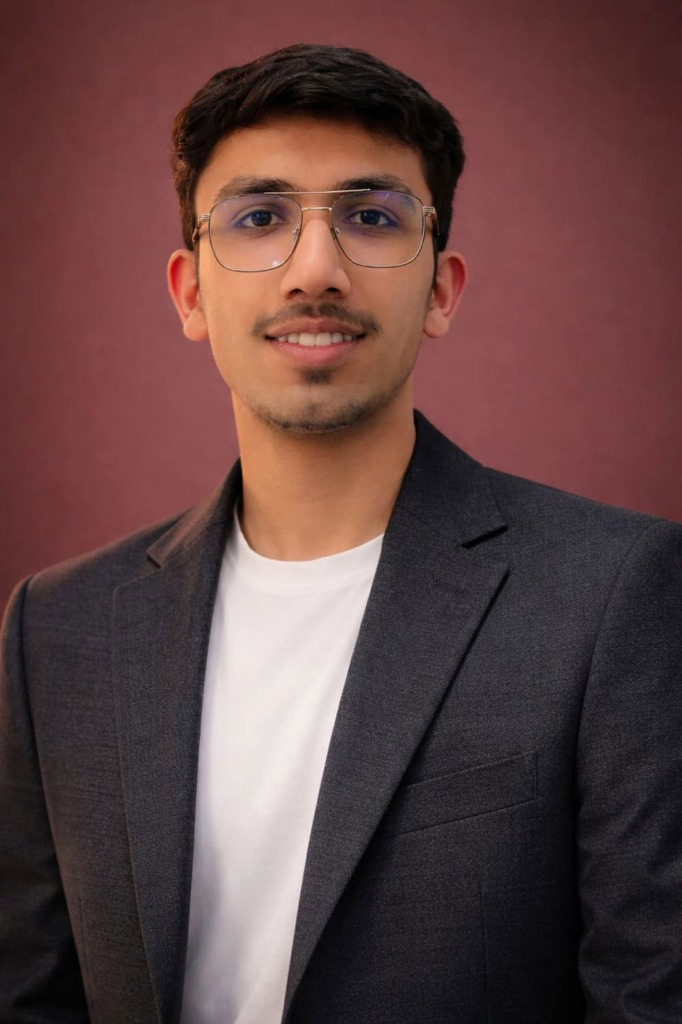
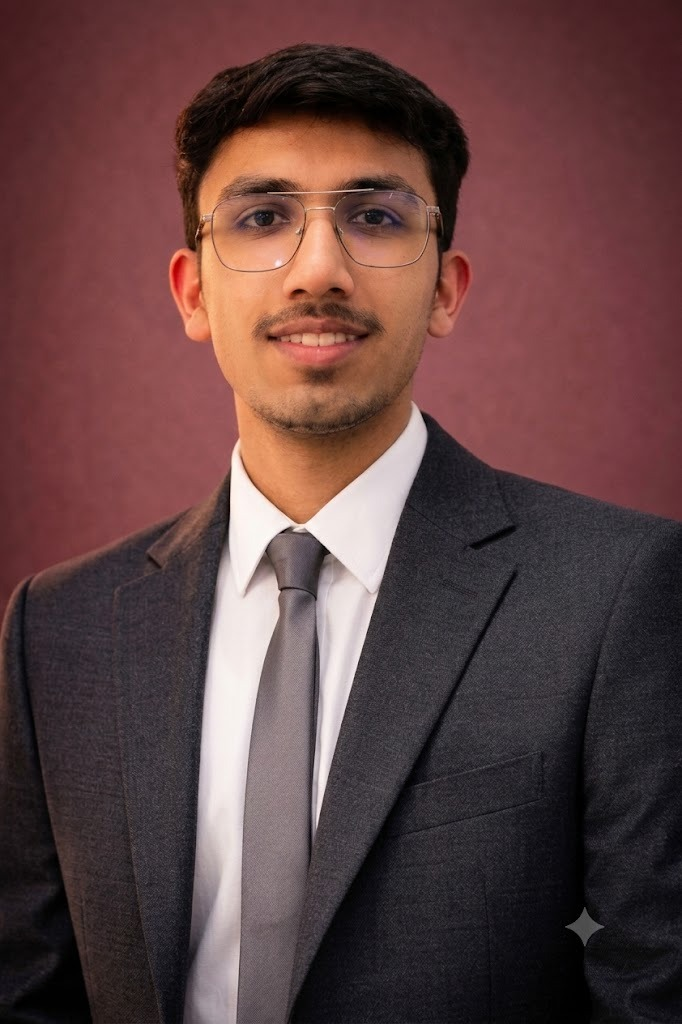
Update profile photo with improved framing and remove JEE gap milestone note

diff --git a/src/styles/index.css b/src/styles/index.css
@@ -599,38 +599,41 @@ body.custom-cursor-active * {
   display: flex;
   justify-content: center;
   align-items: center;
-  width: calc(var(--avatar-size) + 100px);
-  height: calc(var(--avatar-size) + 100px);
+  width: calc(var(--avatar-size) + 90px);
+  height: calc(var(--avatar-size) + 90px);
   max-width: 100%;
   margin: 0 auto;
 }
 
 .avatar-ring {
   position: absolute;
-  width: calc(var(--avatar-size) + 70px);
-  height: calc(var(--avatar-size) + 70px);
+  width: calc(var(--avatar-size) + 60px);
+  height: calc(var(--avatar-size) + 60px);
   border-radius: 50%;
-  border: 2px dashed rgba(0, 240, 255, 0.4);
+  border: 2px dashed rgba(0, 240, 255, 0.45);
   animation: rotate-ring 25s linear infinite;
-  box-shadow: 0 0 25px rgba(0, 240, 255, 0.15);
+  box-shadow: 0 0 25px rgba(0, 240, 255, 0.2);
+  pointer-events: none;
 }
 
 .avatar-ring-outer {
   position: absolute;
-  width: calc(var(--avatar-size) + 100px);
-  height: calc(var(--avatar-size) + 100px);
+  width: calc(var(--avatar-size) + 90px);
+  height: calc(var(--avatar-size) + 90px);
   border-radius: 50%;
-  border: 1px solid rgba(255, 0, 127, 0.25);
+  border: 1.5px solid rgba(255, 0, 127, 0.3);
   animation: rotate-ring-rev 30s linear infinite;
+  pointer-events: none;
 }
 
 .avatar-glow {
   position: absolute;
-  width: calc(var(--avatar-size) + 20px);
-  height: calc(var(--avatar-size) + 20px);
+  width: calc(var(--avatar-size) + 30px);
+  height: calc(var(--avatar-size) + 30px);
   border-radius: 50%;
-  background: radial-gradient(circle, rgba(0, 240, 255, 0.3) 0%, rgba(255, 0, 127, 0.15) 50%, transparent 70%);
-  filter: blur(25px);
+  background: radial-gradient(circle, rgba(0, 240, 255, 0.35) 0%, rgba(255, 0, 127, 0.2) 50%, transparent 70%);
+  filter: blur(28px);
+  pointer-events: none;
 }
 
 .avatar-img-container {
@@ -639,23 +642,30 @@ body.custom-cursor-active * {
   height: var(--avatar-size);
   border-radius: 50%;
   overflow: hidden;
-  border: 4px solid rgba(0, 240, 255, 0.6);
-  box-shadow: var(--shadow-lg), 0 0 40px rgba(0, 240, 255, 0.3);
+  border: 4px solid rgba(0, 240, 255, 0.7);
+  box-shadow: 0 10px 35px rgba(0, 0, 0, 0.6), 0 0 35px rgba(0, 240, 255, 0.35);
   background: var(--bg-tertiary);
+  z-index: 2;
 }
 
-/* Optimized position to center Harsh's face and glasses properly */
-.avatar-img-container img {
+/* Zoomed out position: Clear space above head and visible body down to chest */
+.avatar-img-container img,
+.hero-avatar-img {
   width: 100%;
   height: 100%;
+  display: block;
   object-fit: cover;
-  object-position: center 10%;
-  transform: scale(1.05);
-  transition: transform 0.5s ease;
+  object-position: center top;
+  transform: scale(1);
+  transform-origin: center top;
+  transition: transform 0.4s ease, filter 0.4s ease;
+  image-rendering: -webkit-optimize-contrast;
 }
 
-.avatar-img-container:hover img {
-  transform: scale(1.1);
+.avatar-img-container:hover img,
+.avatar-img-container:hover .hero-avatar-img {
+  transform: scale(1.03);
+  filter: brightness(1.04);
 }
 
 @keyframes rotate-ring {

diff --git a/src/components/Hero.jsx b/src/components/Hero.jsx
@@ -92,7 +92,9 @@ export const Hero = () => {
             <img
               src={personal.avatar}
               alt={personal.name}
-              style={{ objectFit: 'cover', objectPosition: 'center 12%' }}
+              className="hero-avatar-img"
+              loading="eager"
+              decoding="async"
               onError={(e) => {
                 e.currentTarget.src = `https://ui-avatars.com/api/?name=${encodeURIComponent(personal.name)}&size=300&background=070714&color=00f0ff&bold=true`;
               }}

diff --git a/src/data/portfolioData.js b/src/data/portfolioData.js
@@ -135,7 +135,6 @@ export const portfolioData = {
       semester: "Currently in 3rd Semester",
       score: "CGPA: 9.24",
       highlight: "Top Academic Standing",
-      notes: "Took a 2-year gap (2023 – 2025) for JEE preparation; Qualified for JEE Advanced",
       jeeQualified: true,
       location: "Phagwara, Punjab, India",
       icon: "GraduationCap"
